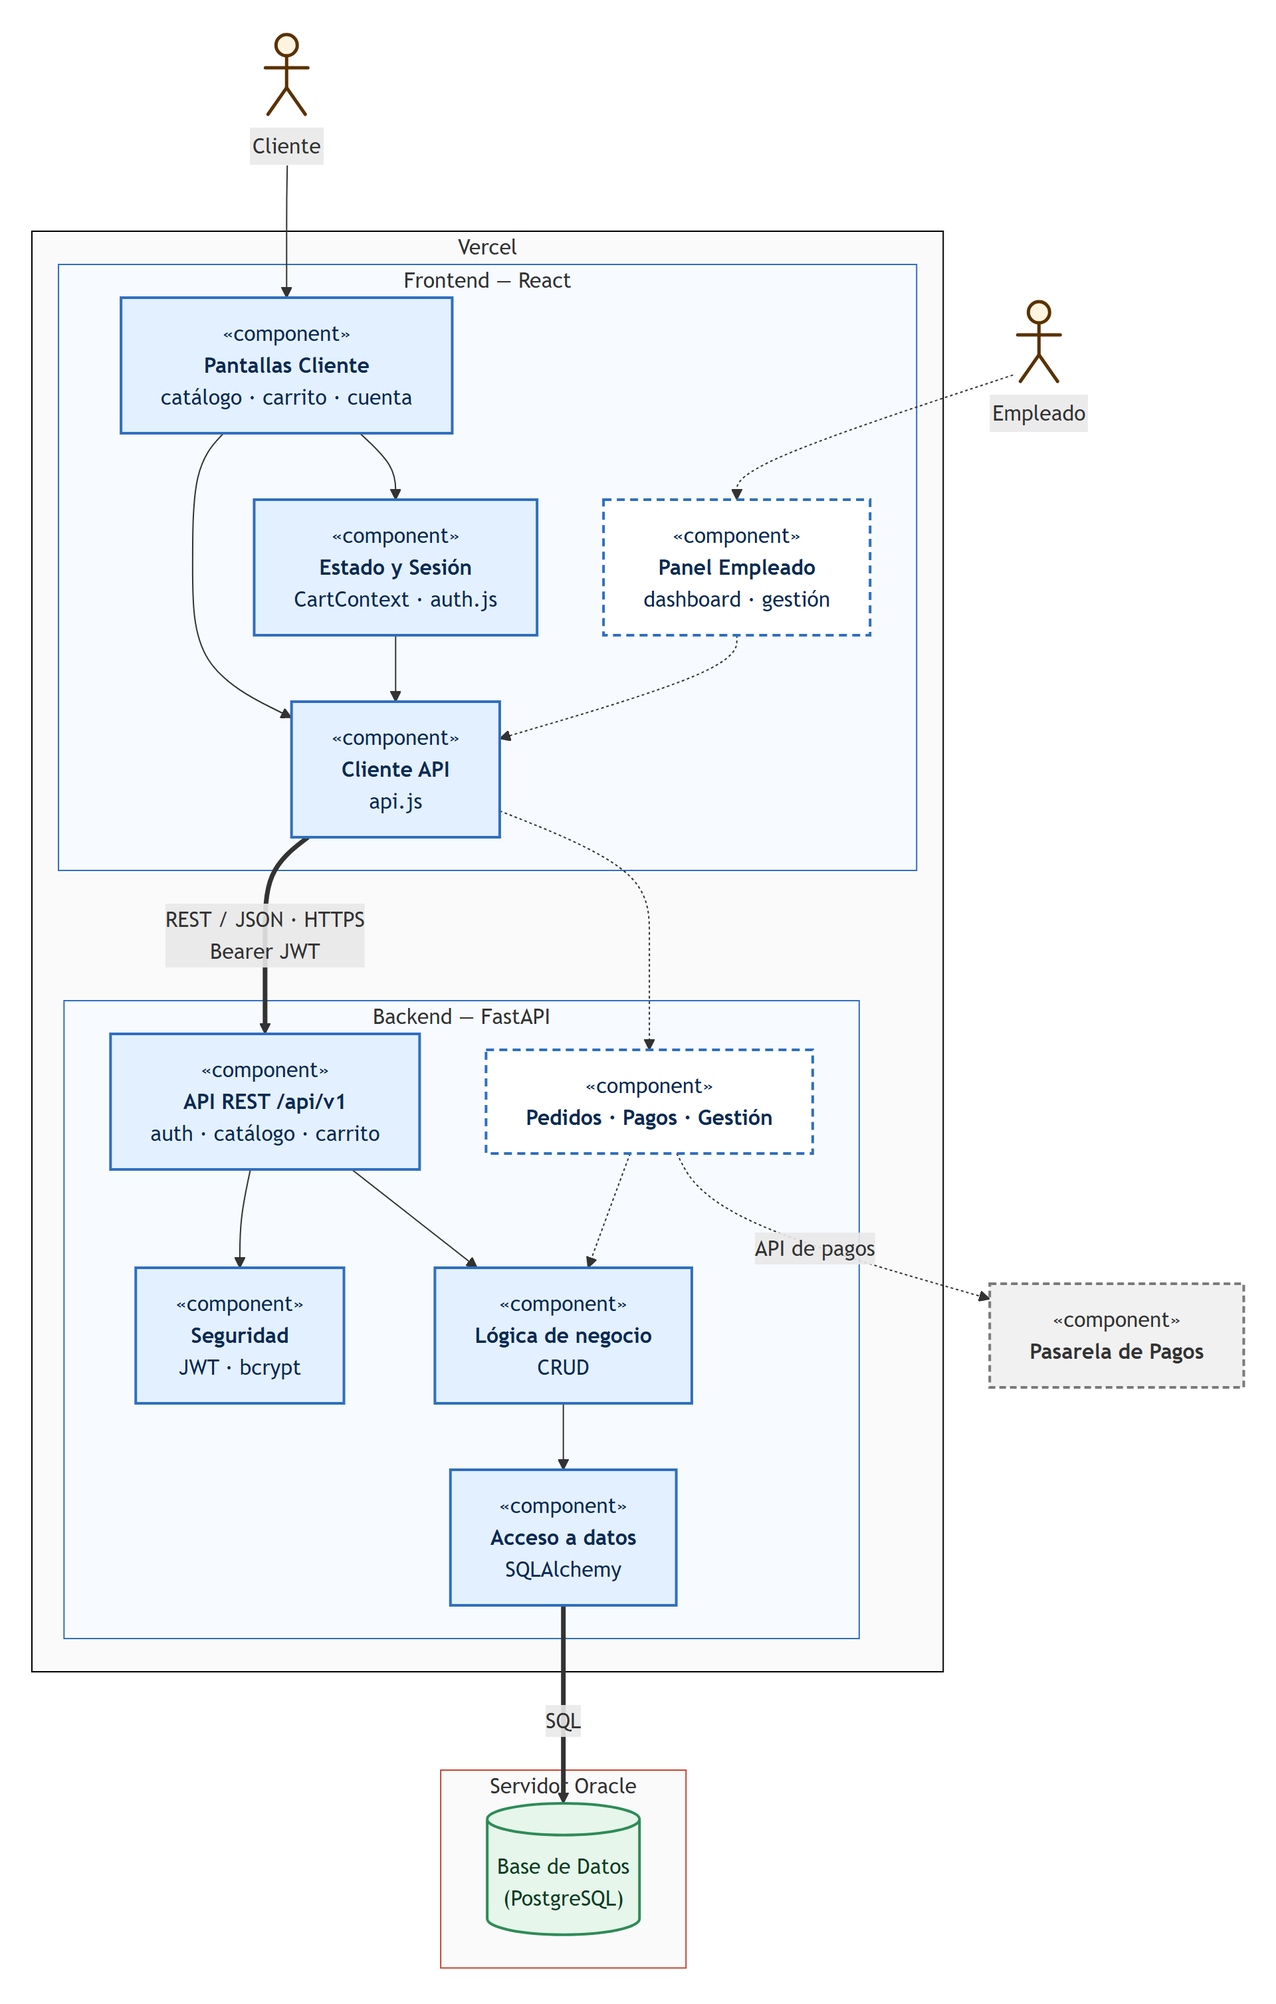
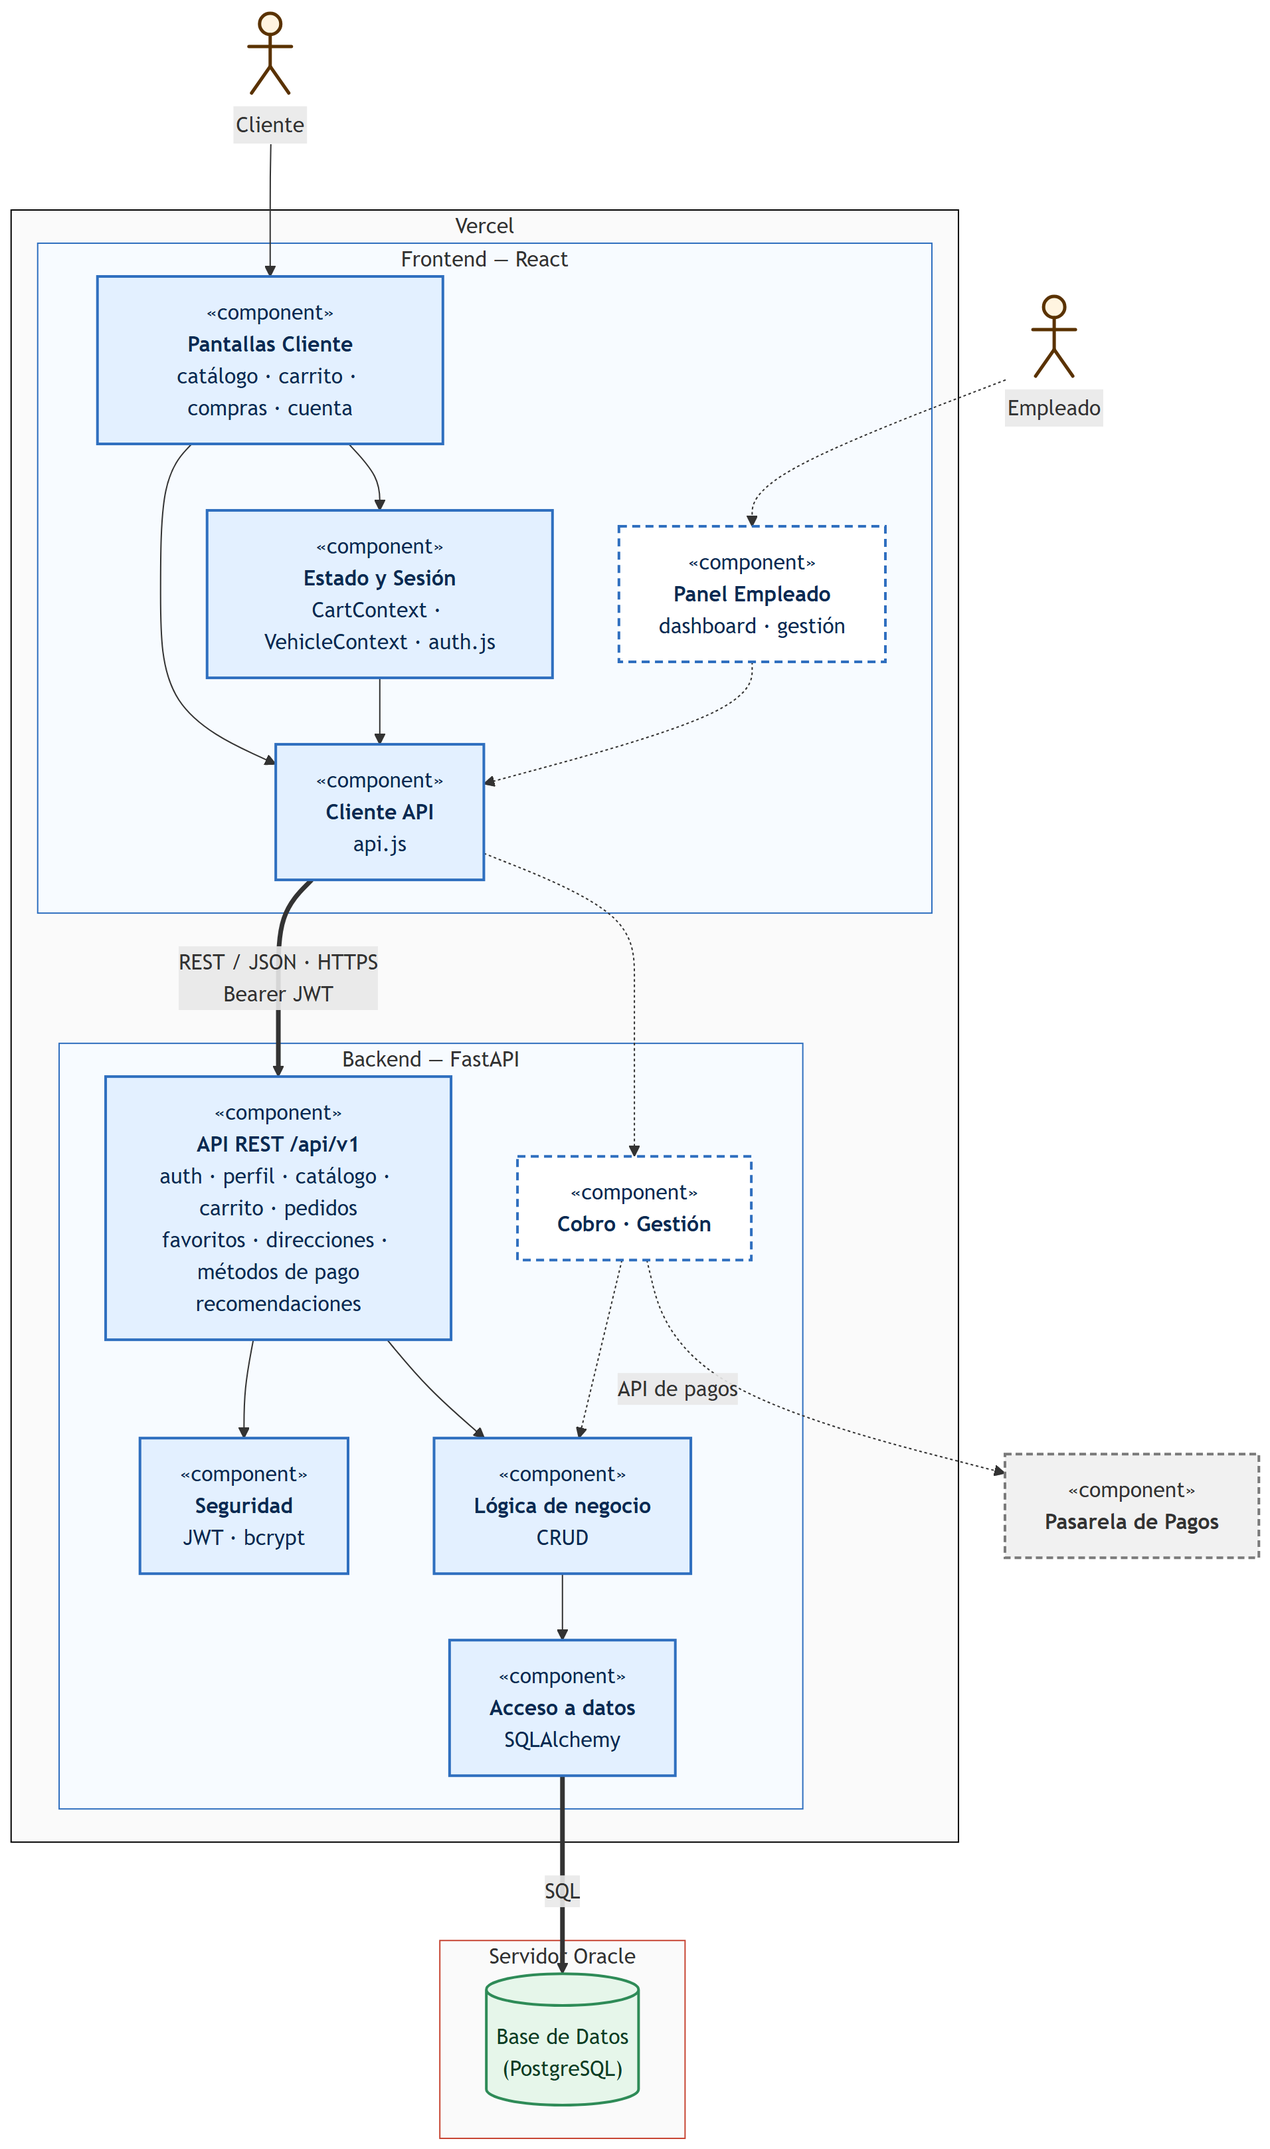
Actualizados diagramas de componentes y secuencia al estado actual de dev
- 01 login: carga del perfil con GET /auth/me después del login.
- 02 búsqueda: marcas y modelos vía Cliente API, vehículo activo (VehicleContext).
- 04 finalizar compra: flujo real con POST /orders (sin cobro todavía).
- 05 registro: endpoint real POST /auth/register y validaciones actuales.
- Componentes: endpoints actuales de la API, VehicleContext, cobro y gestión como planificados.

diff --git a/diagrams/secuencia/04-finalizar-compra.md b/diagrams/secuencia/04-finalizar-compra.md
@@ -1,17 +1,10 @@
-# Secuencia: finalizar compra *(planificado)*
+# Secuencia: finalizar compra
 
-> **Estado actual:** el botón "FINALIZAR COMPRA" de `Carrito.jsx` todavía no tiene
-> acción y no existe ningún endpoint de pedidos. Lo único implementado es la
-> transacción `place_order()` en `backend/app/crud/order.py` (recuadro amarillo
-> en el diagrama).
->
-> **Propuesto (a confirmar con el equipo):** el endpoint `POST /api/v1/orders`, los
-> códigos de respuesta (400 / 409 / 402 / 201), la integración con la pasarela y el
-> orden "primero se reserva el stock y se crea el pedido, después se cobra". Con ese
-> orden nunca se cobra un pedido que no se puede cumplir, pero un pago rechazado
-> obliga a deshacer el pedido. `Order` todavía no tiene un campo de estado
-> (pendiente / pagado / cancelado), así que cómo representar eso es una decisión
-> pendiente.
+> **Alcance actual:** confirmar la compra crea el pedido a partir del carrito,
+> descuenta el stock y vacía el carrito, todo en una transacción
+> (`place_order()` en `crud/order.py`). **Todavía no hay cobro:** no se elige
+> método de pago ni dirección de envío, y no hay integración con una pasarela
+> de pagos (planificada, ver el diagrama de componentes).
 
 ```mermaid
 ---
@@ -24,71 +17,82 @@ sequenceDiagram
 
     box rgb(227,240,255) Frontend
         participant P as Pantallas<br/>(Carrito)
+        participant S as Estado y Sesión<br/>(CartContext)
         participant A as Cliente API
     end
 
     box rgb(247,251,255) Backend
         participant R as API REST
         participant Seg as Seguridad
-        participant L as Lógica de negocio<br/>(Pedidos · Pagos)
+        participant L as Lógica de negocio<br/>(Pedidos)
     end
 
     participant DB as Base de Datos
-    participant PG as Pasarela de Pagos
 
+    Note over P: "Finalizar compra" está deshabilitado<br/>si el carrito está vacío
     C->>P: "Finalizar compra"
-    P->>A: Confirmar pedido
+    P-->>C: Modal de confirmación
+    C->>P: Confirma
+    P->>A: confirmarCompra()
     A->>R: POST /api/v1/orders (Bearer JWT)
     R->>Seg: get_current_client(token)
-    Note over R,Seg: 401 / 403 igual que en el diagrama 03
-    Seg-->>R: cliente
+    Seg->>DB: Buscar cliente por id (sub)
 
-    R->>L: place_order(client_id)
-    rect rgb(255,248,220)
-        Note over L,DB: place_order() — implementado en crud/order.py
-        L->>DB: BEGIN · SELECT cart + items FOR UPDATE
+    alt Token ausente, inválido o vencido
+        Seg-->>R: 401
+        R-->>A: 401 "Token inválido o expirado."
+    else El usuario no es cliente
+        Seg-->>R: 403
+        R-->>A: 403 "Esta acción requiere una cuenta de cliente."
+    else Cliente válido
+        Seg-->>R: cliente
+        R->>DB: ROLLBACK (cierra la transacción de lectura de la autenticación)
+        R->>L: place_order(client_id)
 
-        alt Carrito inexistente o vacío
-            L->>DB: ROLLBACK
-            L-->>R: error
-            R-->>A: 400 El carrito está vacío
-        else Carrito con items
-            L->>DB: SELECT part WHERE id IN (…) FOR UPDATE
-            DB-->>L: repuestos (bloqueados)
+        rect rgb(255,248,220)
+            Note over L,DB: place_order() — una sola transacción
+            L->>DB: BEGIN · SELECT cart + items FOR UPDATE
 
-            alt Repuesto inexistente o stock insuficiente
+            alt Carrito inexistente o vacío
                 L->>DB: ROLLBACK
-                L-->>R: error
-                R-->>A: 409 No hay stock suficiente
-            else Stock suficiente
-                L->>DB: INSERT order · INSERT order_item<br/>(frozen_price = precio actual)
-                L->>DB: UPDATE part.stock -= cantidad · DELETE cart_item
-                L->>DB: COMMIT
-                L-->>R: pedido
+                L-->>R: ValueError
+                R-->>A: 400 "Tu carrito está vacío."
+            else Carrito con items
+                L->>DB: SELECT part WHERE id IN (…) FOR UPDATE
+                DB-->>L: repuestos (bloqueados)
+
+                alt Algún repuesto ya no existe
+                    L->>DB: ROLLBACK
+                    L-->>R: ValueError
+                    R-->>A: 409 "Algún repuesto del carrito ya no está disponible."
+                else Stock insuficiente
+                    L->>DB: ROLLBACK
+                    L-->>R: ValueError (repuesto, pedido, disponible)
+                    R->>DB: SELECT part (nombre del repuesto)
+                    R-->>A: 409 "No hay stock suficiente de 'X': pediste N, hay M."
+                else Stock suficiente
+                    L->>DB: INSERT order · INSERT order_item<br/>(frozen_price = precio actual)
+                    L->>DB: UPDATE part.stock -= cantidad · DELETE cart_item
+                    L->>DB: COMMIT
+                    L-->>R: pedido
+                    R->>R: build_order_detail_out (total con frozen_price)
+                    R-->>A: 201 { order_id, created_at, total, items }
+                end
             end
         end
     end
 
-    opt Pedido creado
-        R->>L: Procesar pago (total del pedido)
-        L->>PG: Solicitar cobro
-        PG-->>L: Resultado del pago
-
-        alt Pago aprobado
-            L-->>R: aprobado
-            R-->>A: 201 { order }
-        else Pago rechazado
-            L->>DB: Cancelar pedido y devolver stock (compensación)
-            L-->>R: rechazado
-            R-->>A: 402 Pago rechazado
-        end
-    end
-
+    Note over P,A: Manejo de la respuesta en el frontend
     alt 201
+        A->>A: mapearPedido
         A-->>P: pedido
-        P-->>C: Confirmación de compra
-    else 400 / 402 / 409
-        A-->>P: error
-        P-->>C: Informa el motivo
+        P-->>C: Confirmación con el número de pedido
+        P->>S: cargarCarrito()
+        S->>A: GET /api/v1/cart
+        A-->>S: carrito vacío
+        S-->>C: Actualiza el carrito y el contador del Navbar
+    else 400 / 401 / 403 / 409 / error de red
+        A-->>P: error (mensaje del backend)
+        P-->>C: Muestra el mensaje en el modal
     end
 ```

diff --git a/diagrams/secuencia/05-registro.md b/diagrams/secuencia/05-registro.md
@@ -1,24 +1,8 @@
-# Secuencia: registro de cliente *(preliminar)*
+# Secuencia: registro de cliente
 
-> **Estado actual:** `Registro.jsx` valida el formulario y guarda el usuario
-> **solo en `localStorage`** (`autobought-usuarios`, con la contraseña en texto
-> plano). No existe endpoint de registro, así que esos usuarios no pueden iniciar
-> sesión contra la API.
->
-> **Ya existe y se reutiliza:** las validaciones del formulario (recuadro amarillo),
-> `hash_password()` y `create_access_token()` en `core/security.py`, el modelo
-> `Client` (herencia de `User`) y el auto-login posterior al registro
-> (`App.jsx · registroExitoso()`).
->
-> **Propuesto (a confirmar con el equipo):**
-> - Endpoint `POST /api/v1/auth/register` con respuesta `201 { access_token }`, para
->   que el registro deje la sesión iniciada como hoy.
-> - `409` si el email ya está registrado (también si dos registros compiten y salta
->   la restricción `UNIQUE`).
-> - **Diferencias de datos a resolver:** el formulario pide `apellido` y `telefono`,
->   que no existen en `User`; y `User.username` es obligatorio y único, pero el
->   formulario no lo pide. Opciones: agregar columnas, guardar `name = nombre +
->   apellido`, y derivar `username` del email o pedirlo en el formulario.
+> El formulario pide nombre y apellido por separado, pero el backend guarda un
+> único `name`: el frontend los envía unidos. El registro devuelve el mismo token
+> que el login, así que la sesión queda iniciada.
 
 ```mermaid
 ---
@@ -45,46 +29,43 @@ sequenceDiagram
 
     C->>P: Completa nombre, apellido, email, teléfono,<br/>contraseña, confirmación y acepta términos
 
-    rect rgb(255,248,220)
-        Note over P: Validaciones del formulario — implementadas en Registro.jsx
-        alt Campos vacíos
-            P-->>C: "Completá todos los campos."
-        else Email sin "@"
-            P-->>C: "Ingresá un correo electrónico válido."
-        else Contraseña de menos de 6 caracteres
-            P-->>C: "La contraseña debe tener al menos 6 caracteres."
-        else Las contraseñas no coinciden
-            P-->>C: "Las contraseñas no coinciden."
-        else No aceptó los términos
-            P-->>C: "Tenés que aceptar los términos y condiciones."
-        end
-    end
-
-    opt Formulario válido
+    alt Campos vacíos
+        P-->>C: "Completá todos los campos."
+    else Email con formato inválido
+        P-->>C: "Ingresá un correo electrónico válido."
+    else Teléfono que no es uruguayo
+        P-->>C: "Ingresá un teléfono uruguayo válido (ej: 099 123 456)."
+    else Contraseña de menos de 8 caracteres
+        P-->>C: "La contraseña debe tener al menos 8 caracteres."
+    else Las contraseñas no coinciden
+        P-->>C: "Las contraseñas no coinciden."
+    else No aceptó los términos
+        P-->>C: "Tenés que aceptar los términos y condiciones."
+    else Formulario válido
         P->>A: registrar({ nombre, apellido, email, telefono, password })
-        A->>R: POST /api/v1/auth/register
-        R->>R: Validar esquema (EmailStr, largo de contraseña)
+        A->>R: POST /api/v1/auth/register<br/>{ name: nombre + apellido, email, phone, password }
+        R->>R: Validar esquema (EmailStr, contraseña de 8 a 72 bytes,<br/>nombre no vacío, normalizar teléfono uruguayo)
 
         alt Datos inválidos
-            R-->>A: 422 Datos inválidos
+            R-->>A: 422
         else Datos válidos
-            R->>L: ¿Existe un usuario con ese email?
+            R->>L: get_user_by_email(email)
             L->>DB: SELECT user WHERE email
             DB-->>L: usuario o nada
             L-->>R: resultado
 
             alt Email ya registrado
-                R-->>A: 409 "Ya existe una cuenta con ese correo."
+                R-->>A: 409 "El correo ya está en uso."
             else Email disponible
                 R->>Seg: hash_password(password) (bcrypt)
                 Seg-->>R: hash
-                R->>L: Crear cliente
+                R->>L: create_client(name, email, hash, phone)
                 L->>DB: INSERT user (user_type = "client") · INSERT client · COMMIT
                 alt Violación de UNIQUE (registro simultáneo)
-                    DB-->>L: error de integridad
-                    L->>DB: ROLLBACK
-                    L-->>R: email duplicado
-                    R-->>A: 409 "Ya existe una cuenta con ese correo."
+                    DB-->>L: IntegrityError
+                    L-->>R: IntegrityError
+                    R->>DB: ROLLBACK
+                    R-->>A: 409 "El correo ya está en uso."
                 else Insert correcto
                     DB-->>L: cliente creado
                     L-->>R: cliente
@@ -98,8 +79,10 @@ sequenceDiagram
         Note over S,A: Manejo de la respuesta en el frontend
         alt 201
             A-->>P: token
-            P->>S: registroExitoso(sesión)
-            Note over P,S: App.jsx · registroExitoso() (ya existe)
+            P->>S: decodeToken(access_token)
+            S-->>P: userId, userType
+            P->>S: registroExitoso(sesión con nombre, email y teléfono)
+            Note over P,S: App.jsx · registroExitoso()
             S->>S: Guardar sesión en localStorage
             par Carga del carrito (en segundo plano)
                 S->>A: cargarCarrito() → GET /api/v1/cart
@@ -107,7 +90,7 @@ sequenceDiagram
                 P-->>C: Redirige al inicio con la sesión iniciada
             end
         else 409 / 422 / error de red
-            A-->>P: error
+            A-->>P: error ("Revisá los datos ingresados." en el 422)
             P-->>C: Muestra el mensaje de error
         end
     end

diff --git a/diagrams/secuencia/02-buscar-repuestos.md b/diagrams/secuencia/02-buscar-repuestos.md
@@ -11,6 +11,7 @@ sequenceDiagram
 
     box rgb(227,240,255) Frontend
         participant P as Pantallas<br/>(Home / Catálogo)
+        participant V as Vehículo activo<br/>(VehicleContext)
         participant A as Cliente API
     end
 
@@ -24,12 +25,14 @@ sequenceDiagram
     C->>P: Abre la página de inicio
 
     par Marcas (selector de vehículo)
-        P->>R: GET /api/v1/brands
+        P->>A: obtenerMarcas()
+        A->>R: GET /api/v1/brands
         R->>L: Listar marcas con sus modelos
         L->>DB: SELECT DISTINCT brand, model FROM car_model
         DB-->>L: filas
         L-->>R: marcas
-        R-->>P: { brands }
+        R-->>A: { brands }
+        A-->>P: marcas
     and Categorías destacadas
         P->>A: obtenerCategorias()
         A->>R: GET /api/v1/parts/categories
@@ -41,17 +44,18 @@ sequenceDiagram
         A-->>P: categorías
     end
 
-    Note over P,R: Marcas, modelos y años se piden directo desde los<br/>componentes del selector, sin pasar por Cliente API
-
     C->>P: Elige marca
-    P->>R: GET /api/v1/models?brand
+    P->>A: obtenerModelos(brand)
+    A->>R: GET /api/v1/models?brand
     R->>L: Listar modelos de la marca
     L->>DB: SELECT DISTINCT model WHERE brand
     DB-->>L: filas
     L-->>R: modelos
-    R-->>P: { brand, models }
+    R-->>A: { brand, models }
+    A-->>P: modelos
 
     C->>P: Elige modelo
+    Note over P,R: Los años se piden directo desde Home,<br/>sin pasar por Cliente API
     P->>R: GET /api/v1/years?brand&model
     R->>L: Listar años compatibles
     L->>DB: SELECT year_from, year_to FROM compatibility JOIN car_model
@@ -60,9 +64,14 @@ sequenceDiagram
     L-->>R: años
     R-->>P: { brand, model, years }
 
-    C->>P: Elige año y presiona "Buscar repuestos"
-    P->>P: Navega a /catalogo con el vehículo elegido
-    Note over P: Los filtros vacíos (marca, modelo o año)<br/>no se envían
+    C->>P: Elige año
+    Note over P: "Buscar repuestos" queda deshabilitado<br/>hasta tener marca, modelo y año
+    C->>P: Presiona "Buscar repuestos"
+    P->>V: activarVehiculo({ brand, model, year })
+    Note over V: El vehículo activo se mantiene al navegar<br/>(carrito, detalle…) hasta "Borrar filtros"
+    P->>P: Navega a /catalogo
+    P->>V: Leer vehículo activo
+    V-->>P: { brand, model, year }
 
     par Repuestos
         P->>A: obtenerRepuestos({ brand, model, year })
@@ -91,10 +100,11 @@ sequenceDiagram
     opt Elige una categoría en el sidebar
         C->>P: Clic en categoría
         P->>A: obtenerRepuestos({ categoria, brand, model, year })
+        Note over P,A: Los filtros vacíos no se envían
         A->>R: GET /api/v1/parts?categoria&brand&model&year
         R-->>A: { parts }
         A-->>P: repuestos
-        P-->>C: Catálogo filtrado por categoría
+        P-->>C: Catálogo filtrado por categoría y vehículo
     end
 
     opt Búsqueda por texto u orden

diff --git a/diagrams/componentes.md b/diagrams/componentes.md
@@ -14,15 +14,15 @@ flowchart TB
 
     subgraph Vercel["Vercel"]
         subgraph FE["Frontend — React"]
-            Pantallas["«component»<br/><b>Pantallas Cliente</b><br/>catálogo · carrito · cuenta"]:::component
+            Pantallas["«component»<br/><b>Pantallas Cliente</b><br/>catálogo · carrito · compras · cuenta"]:::component
             PanelEmp["«component»<br/><b>Panel Empleado</b><br/>dashboard · gestión"]:::planned
-            Estado["«component»<br/><b>Estado y Sesión</b><br/>CartContext · auth.js"]:::component
+            Estado["«component»<br/><b>Estado y Sesión</b><br/>CartContext · VehicleContext · auth.js"]:::component
             ApiCli["«component»<br/><b>Cliente API</b><br/>api.js"]:::component
         end
 
         subgraph BE["Backend — FastAPI"]
-            API["«component»<br/><b>API REST /api/v1</b><br/>auth · catálogo · carrito"]:::component
-            Nuevos["«component»<br/><b>Pedidos · Pagos · Gestión</b>"]:::planned
+            API["«component»<br/><b>API REST /api/v1</b><br/>auth · perfil · catálogo · carrito · pedidos<br/>favoritos · direcciones · métodos de pago<br/>recomendaciones"]:::component
+            Nuevos["«component»<br/><b>Cobro · Gestión</b>"]:::planned
             Seg["«component»<br/><b>Seguridad</b><br/>JWT · bcrypt"]:::component
             Logica["«component»<br/><b>Lógica de negocio</b><br/>CRUD"]:::component
             ORM["«component»<br/><b>Acceso a datos</b><br/>SQLAlchemy"]:::component

diff --git a/diagrams/secuencia/01-login.md b/diagrams/secuencia/01-login.md
@@ -55,6 +55,21 @@ sequenceDiagram
                 P->>S: decodeToken(access_token)
                 S-->>P: userId, userType
 
+                P->>A: obtenerPerfil(access_token)
+                A->>R: GET /api/v1/auth/me (Bearer JWT)
+                R->>Seg: get_current_client(token)
+                Seg->>DB: Buscar cliente por id (sub)
+                DB-->>Seg: cliente
+                Seg-->>R: cliente
+                R-->>A: 200 { name, email, phone }
+                alt Perfil cargado
+                    A-->>P: nombre, email, teléfono
+                    P->>P: Agregar el perfil a la sesión
+                else Error al cargar el perfil
+                    A-->>P: error
+                    Note over P: El login sigue igual,<br/>con la sesión sin nombre ni teléfono
+                end
+
                 P->>S: iniciarSesion(sesión, recordarme)
                 Note over P,S: App.jsx · iniciarSesion()
                 alt recordarme = sí
